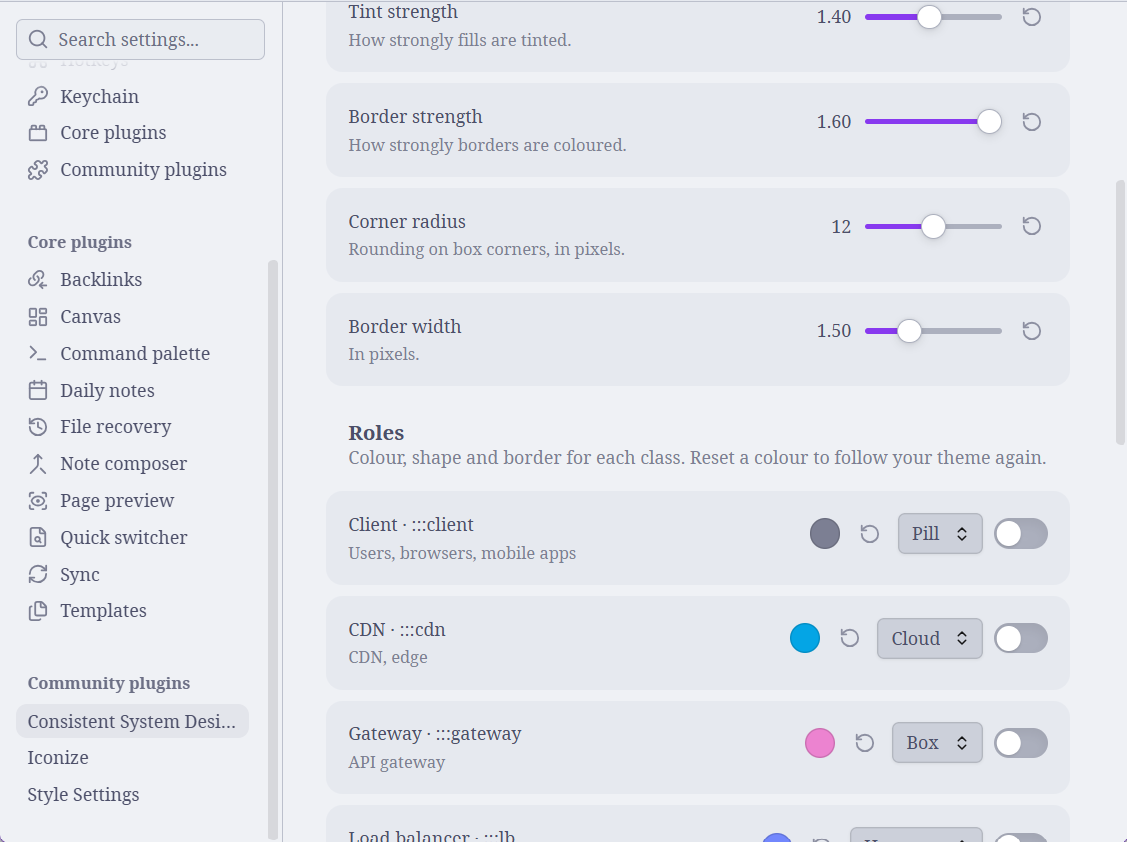
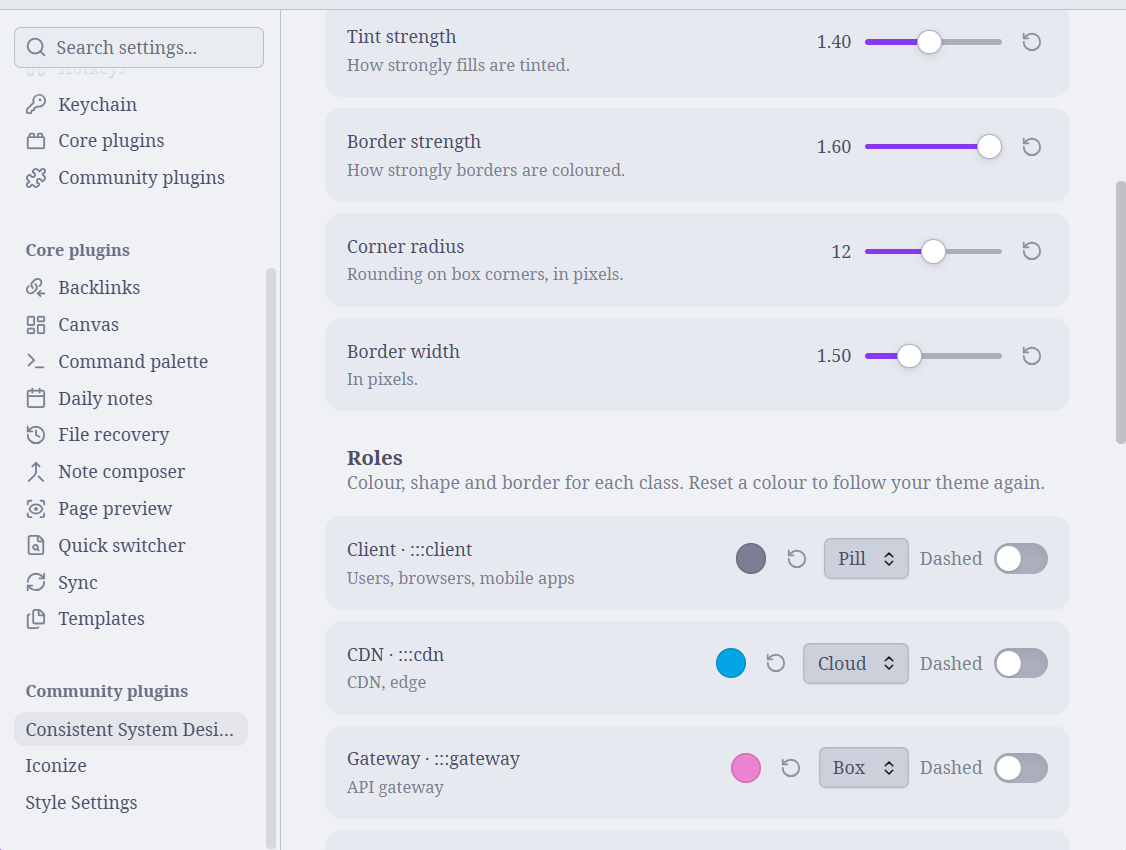
Update the settings screenshot for the Dashed labels

diff --git a/README.md b/README.md
@@ -76,7 +76,7 @@ Labels that contain brackets need quotes, as they always do in Mermaid syntax: `
 
 **Settings → Consistent System Design** has everything, with no other plugin needed:
 
-<img alt="The plugin's settings page in Obsidian: sliders for tint strength, border strength, corner radius and border width, then a row per role with a colour swatch, a reset button, a shape dropdown and a dashed-border toggle." src="docs/images/settings.png" width="720">
+<img alt="The plugin's settings page in Obsidian: sliders for tint strength, border strength, corner radius and border width, then a row per role with a colour swatch, a reset button, a shape dropdown and a toggle labelled Dashed." src="docs/images/settings.png" width="720">
 
 - **Look:** Soft (tinted fill, the default), Outline (coloured border and text) or Solid (filled with the role colour; text turns dark or light to suit each colour).
 - **Sliders:** tint strength, border strength, corner radius and border width.
